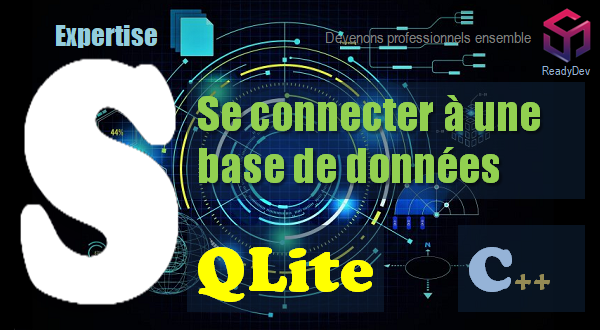
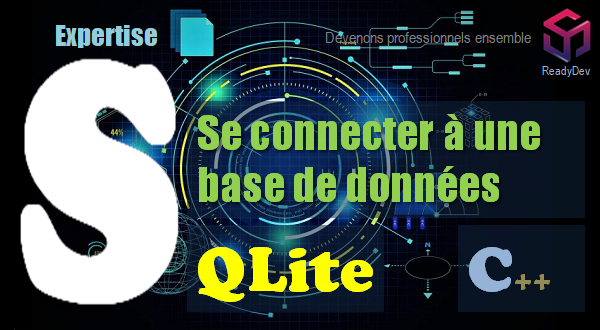
Initial Commit

Changed region(s): [[0.3, 0.2424, 0.99, 0.6667]]

diff --git a/Tutoriels/Cpp/SQLite/Connect/page/main.php b/Tutoriels/Cpp/SQLite/Connect/page/main.php
@@ -1,83 +1,13 @@
-<div class="Parallax GParallax1"><div class="Img Binary"><div class="Caption"><a href="#"><div class="Text">Afficher les données d'une table SQLite en C++</div></a></div></div><div class="Body2 Orange">Le but de ce tutoriel est de vous apprendre à afficher les données d'une table <b>SQLite </b>en <b>C++</b>.<br>Version Pro &amp; Industrielle. Produit par <b>Gérard KESSE</b>.<br><br><div class="Content0 GSummary1"><div class="Body0" id="Loader_1529412976174"><div class="Row26">Summary 1</div></div><script>loadSummary1("Loader_1529412976174");</script></div></div></div><br><div class="Content2 GTitle1"><div class="MainBlock2"><div class="Content"><h1 class="Title2 Center" id="Introduction"><a class="Link3" href="#">Introduction</a></h1><div class="Body3"><b>SQLite </b>est une bibliothèque écrite en langage C qui propose un moteur de base de données relationnelle accessible par le langage SQL. SQLite implémente en grande partie le standard SQL-92 et des propriétés ACID. Sa particularité est de ne pas reproduire le schéma habituel client-serveur mais d'être directement intégrée aux programmes. L'intégralité de la base de données (déclarations, tables, index et données) est stockée dans un fichier indépendant de la plateforme.<br><br><div class="Img3 GImage"><img src="/Tutoriels/Cpp/img/b_sqlite_show.png" alt="/Tutoriels/Cpp/img/b_sqlite_show.png"></div><br></div></div></div></div><br><div class="Content2 GTitle1"><div class="MainBlock2"><div class="Content"><h1 class="Title2 Center" id="Afficher les données d'une table SQLite C++"><a class="Link3" href="#">Afficher les données d'une table SQLite C++</a></h1><div class="Body3"><br><div class="Content0 GSummary2"><div class="Body0" id="Loader_1599250744051"><div class="Row26">Summary 2</div></div><script>loadSummary2("Loader_1599250744051");</script></div><br><h2 class="Title7 GTitle2" id="Afficher les données d'une table SQLite C++-Introduction"><a class="Link9" href="#Afficher les données d'une table SQLite C++">Introduction</a></h2><br>Dans l'exemple qui suit, nous essayons d'afficher les données d'une table SQLite (CONFIG_CPP).<br><br><h2 class="Title7 GTitle2" id="Afficher les données d'une table SQLite C++-Programme principal"><a class="Link9" href="#Afficher les données d'une table SQLite C++">Programme principal</a></h2><br><h3 class="Title8 GTitle3">main.cpp</h3><br><div class="GCode1"><pre class="Code2"><xmp class="AceCode" data-mode="c_cpp">GSQLite::Instance()-&gt;queryShow("\
-select * from CONFIG_CPP \
-order by CONFIG_KEY \
-", 1, "20;30", "20");</xmp></pre></div><br><h3 class="Title8 GTitle3">GSQLite.cpp</h3><br><div class="GCode1"><pre class="Code2"><xmp class="AceCode" data-mode="c_cpp">//===============================================
-struct _sGSQLiteShow {
-    int on_header;
-    std::string width_map;
-    std::string default_width;
-    int on_sep;
-    int col_count;
-};
-//===============================================</xmp></pre></div><br><h2 class="Title7 GTitle2" id="Afficher les données d'une table SQLite C++-Affichage d'une requête"><a class="Link9" href="#Afficher les données d'une table SQLite C++">Affichage d'une requête</a></h2><br><h3 class="Title8 GTitle3">GSQLite.cpp</h3><br><div class="GCode1"><pre class="Code2"><xmp class="AceCode" data-mode="c_cpp">//===============================================
-void GSQLite::queryShow(std::string sql, int onHeader, std::string widthMap, std::string defaultWidth) {
-    sGSQLiteShow lParams = {onHeader, widthMap, defaultWidth, 1, 0};
-    sqlite3* lDb = connect();
-    char* lError;
-    int lAns = sqlite3_exec(lDb, sql.c_str(), onShow, &lParams, &lError);
+<div class="Parallax GParallax1"><div class="Img Binary"><div class="Caption"><a href="#"><div class="Text">Se connecter à une base de données SQLite en C++</div></a></div></div><div class="Body2 Orange">Le but de ce tutoriel est de vous apprendre à vous connecter à une base de données <b>SQLite </b>en <b>C++</b>.<br>Version Pro &amp; Industrielle. Produit par <b>Gérard KESSE</b>.<br><br><div class="Content0 GSummary1"><div class="Body0" id="Loader_1529412976174"><div class="Row26">Summary 1</div></div><script>loadSummary1("Loader_1529412976174");</script></div></div></div><br><div class="Content2 GTitle1"><div class="MainBlock2"><div class="Content"><h1 class="Title2 Center" id="Introduction"><a class="Link3" href="#">Introduction</a></h1><div class="Body3"><b>SQLite </b>est une bibliothèque écrite en langage C qui propose un moteur de base de données relationnelle accessible par le langage SQL. SQLite implémente en grande partie le standard SQL-92 et des propriétés ACID. Sa particularité est de ne pas reproduire le schéma habituel client-serveur mais d'être directement intégrée aux programmes. L'intégralité de la base de données (déclarations, tables, index et données) est stockée dans un fichier indépendant de la plateforme.<br><br><div class="Img3 GImage"><img src="/Tutoriels/Cpp/img/b_sqlite_connect.png" alt="/Tutoriels/Cpp/img/b_sqlite_connect.png"></div><br></div></div></div></div><br><div class="Content2 GTitle1"><div class="MainBlock2"><div class="Content"><h1 class="Title2 Center" id="Se connecter à une base de données SQLite C++"><a class="Link3" href="#">Se connecter à une base de données SQLite C++</a></h1><div class="Body3"><br><div class="Content0 GSummary2"><div class="Body0" id="Loader_1599250744051"><div class="Row26">Summary 2</div></div><script>loadSummary2("Loader_1599250744051");</script></div><br><h2 class="Title7 GTitle2" id="Se connecter à une base de données SQLite C++-Introduction"><a class="Link9" href="#Se connecter à une base de données SQLite C++">Introduction</a></h2><br>Dans l'exemple qui suit, nous essayons de nous connecter à une base de données SQLite (CONFIG.dat).<br><br><h2 class="Title7 GTitle2" id="Se connecter à une base de données SQLite C++-Programme principal"><a class="Link9" href="#Se connecter à une base de données SQLite C++">Programme principal</a></h2><br><h3 class="Title8 GTitle3">main.cpp</h3><br><div class="GCode1"><pre class="Code2"><xmp class="AceCode" data-mode="c_cpp">sqlite3* lDb = connect();</xmp></pre></div><br><h3 class="Title8 GTitle3">GManager.cpp</h3><br><div class="GCode1"><pre class="Code2"><xmp class="AceCode" data-mode="c_cpp">m_mgr-&gt;sqlite-&gt;db_path = "CONFIG_O.dat";</xmp></pre></div><br><h2 class="Title7 GTitle2" id="Se connecter à une base de données SQLite C++-Se connecter à la base de données"><a class="Link9" href="#Se connecter à une base de données SQLite C++">Se connecter à la base de données</a></h2><br><div class="GCode1"><pre class="Code2"><xmp class="AceCode" data-mode="c_cpp">//===============================================
+sqlite3* GSQLite::connect() {
+    sGSQLite* lSqlite = GManager::Instance()-&gt;dataGet()-&gt;sqlite;
+    sqlite3* lDb;
+    int lAns = sqlite3_open(lSqlite-&gt;db_path.c_str(), &lDb);
     if(lAns != SQLITE_OK) {
-        printf("[GSQLite] erreur queryShow : %s\n", sqlite3_errmsg(lDb));
-        sqlite3_free(lError);
+        printf("[GSQLite] erreur connect : %s\n", sqlite3_errmsg(lDb));
+        printf("[GSQLite] %s\n", lSqlite-&gt;db_path.c_str());
         exit(0); 
     }
-    sqlite3_close(lDb);
-    if(lParams.col_count != 0) {
-        printf("+-");
-        for(int i = 0; i &lt; lParams.col_count; i++) {
-            int lWidth = std::stoi(GManager::Instance()-&gt;splitGet(widthMap, ';', i, defaultWidth));
-            if(i != 0 ) {printf("-+-");}
-            for(int i = 0; i &lt; lWidth; i++) {printf("-");}
-        }
-        printf("-+");
-        printf("\n");
-    }
+    return lDb;
 }
-//===============================================</xmp></pre></div><br><h2 class="Title7 GTitle2" id="Afficher les données d'une table SQLite C++-Fonction de rappel"><a class="Link9" href="#Afficher les données d'une table SQLite C++">Fonction de rappel</a></h2><br><h3 class="Title8 GTitle3">GSQLite.cpp</h3><br><div class="GCode1"><pre class="Code2"><xmp class="AceCode" data-mode="c_cpp">//===============================================
-int GSQLite::onShow(void* params, int colCount, char** colValue, char** colName) {
-    sGSQLiteShow* lParams = (sGSQLiteShow*)params;
-    std::string lWidthMap = lParams-&gt;width_map;
-    std::string lWidthDefault = lParams-&gt;default_width;
-    if(lParams-&gt;on_header == 1) {
-        printf("+-");
-        for(int i = 0; i &lt; colCount; i++) {
-            int lWidth = std::stoi(GManager::Instance()-&gt;splitGet(lWidthMap, ';', i, lWidthDefault));
-            if(i != 0 ) {printf("-+-");}
-            for(int i = 0; i &lt; lWidth; i++) {printf("-");}
-        }
-        printf("-+");
-        printf("\n");
-        printf("| ");
-        for(int i = 0; i &lt; colCount; i++) {
-            int lWidth = std::stoi(GManager::Instance()-&gt;splitGet(lWidthMap, ';', i, lWidthDefault));
-            char* lColName = colName[i];
-            if(i != 0) {printf(" | ");}
-            {printf("%-*s", lWidth, lColName);}
-        }
-        printf(" |");
-        printf("\n");
-    }
-    if(lParams-&gt;on_sep == 1) {
-        printf("+-");
-        for(int i = 0; i &lt; colCount; i++) {
-            int lWidth = std::stoi(GManager::Instance()-&gt;splitGet(lWidthMap, ';', i, lWidthDefault));
-            if(i != 0 ) {printf("-+-");}
-            for(int i = 0; i &lt; lWidth; i++) {printf("-");}
-        }
-        printf("-+");
-        printf("\n");
-        lParams-&gt;col_count = colCount;
-    }
-    printf("| ");
-    for(int i = 0; i &lt; colCount; i++) {
-        int lWidth = std::stoi(GManager::Instance()-&gt;splitGet(lWidthMap, ';', i, lWidthDefault));
-        const char* lCoValue = colValue[i] ? colValue[i] : "NULL";
-        if(i != 0) {printf(" | ");}
-        printf("%-*s", lWidth, lCoValue);
-    }
-    printf(" |");
-    printf("\n");
-    lParams-&gt;on_header = 0;
-    lParams-&gt;on_sep = 0;
-    return 0;
-}
-//===============================================</xmp></pre></div><br><h2 class="Title7 GTitle2" id="Afficher les données d'une table SQLite C++-Résultat"><a class="Link9" href="#Afficher les données d'une table SQLite C++">Résultat</a></h2><br><div class="Img3 GImage"><img src="/Tutoriels/Cpp/img/i_sqlite_show.png" alt="/Tutoriels/Cpp/img/i_sqlite_show.png"></div><br></div></div></div></div><br><div class="Content2 GTitle1"><div class="MainBlock2"><div class="Content"><h1 class="Title2 Center" id="Voir Aussi"><a class="Link3" href="#">Voir Aussi</a></h1><div class="Body3">Dans cette même catégorie, vous pouvez consulter aussi :<br><br><span class="GColor1" style="color:lime;">Base de données SQLite</span><br><br><div class="Content0 GList1"><div class="Body0" id="Loader_1600474250946"><div class="Row26">List 1 &gt; Cpp &gt; sqlite</div></div><script>loadList1("Loader_1600474250946","Cpp","sqlite");</script></div><br></div></div></div></div><br>
+//===============================================</xmp></pre></div><br></div></div></div></div><br><div class="Content2 GTitle1"><div class="MainBlock2"><div class="Content"><h1 class="Title2 Center" id="Voir Aussi"><a class="Link3" href="#">Voir Aussi</a></h1><div class="Body3">Dans cette même catégorie, vous pouvez consulter aussi :<br><br><span class="GColor1" style="color:lime;">Base de données SQLite</span><br><br><div class="Content0 GList1"><div class="Body0" id="Loader_1600474250946"><div class="Row26">List 1 &gt; Cpp &gt; sqlite</div></div><script>loadList1("Loader_1600474250946","Cpp","sqlite");</script></div><br></div></div></div></div><br>

diff --git a/Tutoriels/Cpp/SQLite/Create/page/main.php b/Tutoriels/Cpp/SQLite/Create/page/main.php
@@ -1,83 +1,6 @@
-<div class="Parallax GParallax1"><div class="Img Binary"><div class="Caption"><a href="#"><div class="Text">Afficher les données d'une table SQLite en C++</div></a></div></div><div class="Body2 Orange">Le but de ce tutoriel est de vous apprendre à afficher les données d'une table <b>SQLite </b>en <b>C++</b>.<br>Version Pro &amp; Industrielle. Produit par <b>Gérard KESSE</b>.<br><br><div class="Content0 GSummary1"><div class="Body0" id="Loader_1529412976174"><div class="Row26">Summary 1</div></div><script>loadSummary1("Loader_1529412976174");</script></div></div></div><br><div class="Content2 GTitle1"><div class="MainBlock2"><div class="Content"><h1 class="Title2 Center" id="Introduction"><a class="Link3" href="#">Introduction</a></h1><div class="Body3"><b>SQLite </b>est une bibliothèque écrite en langage C qui propose un moteur de base de données relationnelle accessible par le langage SQL. SQLite implémente en grande partie le standard SQL-92 et des propriétés ACID. Sa particularité est de ne pas reproduire le schéma habituel client-serveur mais d'être directement intégrée aux programmes. L'intégralité de la base de données (déclarations, tables, index et données) est stockée dans un fichier indépendant de la plateforme.<br><br><div class="Img3 GImage"><img src="/Tutoriels/Cpp/img/b_sqlite_show.png" alt="/Tutoriels/Cpp/img/b_sqlite_show.png"></div><br></div></div></div></div><br><div class="Content2 GTitle1"><div class="MainBlock2"><div class="Content"><h1 class="Title2 Center" id="Afficher les données d'une table SQLite C++"><a class="Link3" href="#">Afficher les données d'une table SQLite C++</a></h1><div class="Body3"><br><div class="Content0 GSummary2"><div class="Body0" id="Loader_1599250744051"><div class="Row26">Summary 2</div></div><script>loadSummary2("Loader_1599250744051");</script></div><br><h2 class="Title7 GTitle2" id="Afficher les données d'une table SQLite C++-Introduction"><a class="Link9" href="#Afficher les données d'une table SQLite C++">Introduction</a></h2><br>Dans l'exemple qui suit, nous essayons d'afficher les données d'une table SQLite (CONFIG_CPP).<br><br><h2 class="Title7 GTitle2" id="Afficher les données d'une table SQLite C++-Programme principal"><a class="Link9" href="#Afficher les données d'une table SQLite C++">Programme principal</a></h2><br><h3 class="Title8 GTitle3">main.cpp</h3><br><div class="GCode1"><pre class="Code2"><xmp class="AceCode" data-mode="c_cpp">GSQLite::Instance()-&gt;queryShow("\
-select * from CONFIG_CPP \
-order by CONFIG_KEY \
-", 1, "20;30", "20");</xmp></pre></div><br><h3 class="Title8 GTitle3">GSQLite.cpp</h3><br><div class="GCode1"><pre class="Code2"><xmp class="AceCode" data-mode="c_cpp">//===============================================
-struct _sGSQLiteShow {
-    int on_header;
-    std::string width_map;
-    std::string default_width;
-    int on_sep;
-    int col_count;
-};
-//===============================================</xmp></pre></div><br><h2 class="Title7 GTitle2" id="Afficher les données d'une table SQLite C++-Affichage d'une requête"><a class="Link9" href="#Afficher les données d'une table SQLite C++">Affichage d'une requête</a></h2><br><h3 class="Title8 GTitle3">GSQLite.cpp</h3><br><div class="GCode1"><pre class="Code2"><xmp class="AceCode" data-mode="c_cpp">//===============================================
-void GSQLite::queryShow(std::string sql, int onHeader, std::string widthMap, std::string defaultWidth) {
-    sGSQLiteShow lParams = {onHeader, widthMap, defaultWidth, 1, 0};
-    sqlite3* lDb = connect();
-    char* lError;
-    int lAns = sqlite3_exec(lDb, sql.c_str(), onShow, &lParams, &lError);
-    if(lAns != SQLITE_OK) {
-        printf("[GSQLite] erreur queryShow : %s\n", sqlite3_errmsg(lDb));
-        sqlite3_free(lError);
-        exit(0); 
-    }
-    sqlite3_close(lDb);
-    if(lParams.col_count != 0) {
-        printf("+-");
-        for(int i = 0; i &lt; lParams.col_count; i++) {
-            int lWidth = std::stoi(GManager::Instance()-&gt;splitGet(widthMap, ';', i, defaultWidth));
-            if(i != 0 ) {printf("-+-");}
-            for(int i = 0; i &lt; lWidth; i++) {printf("-");}
-        }
-        printf("-+");
-        printf("\n");
-    }
-}
-//===============================================</xmp></pre></div><br><h2 class="Title7 GTitle2" id="Afficher les données d'une table SQLite C++-Fonction de rappel"><a class="Link9" href="#Afficher les données d'une table SQLite C++">Fonction de rappel</a></h2><br><h3 class="Title8 GTitle3">GSQLite.cpp</h3><br><div class="GCode1"><pre class="Code2"><xmp class="AceCode" data-mode="c_cpp">//===============================================
-int GSQLite::onShow(void* params, int colCount, char** colValue, char** colName) {
-    sGSQLiteShow* lParams = (sGSQLiteShow*)params;
-    std::string lWidthMap = lParams-&gt;width_map;
-    std::string lWidthDefault = lParams-&gt;default_width;
-    if(lParams-&gt;on_header == 1) {
-        printf("+-");
-        for(int i = 0; i &lt; colCount; i++) {
-            int lWidth = std::stoi(GManager::Instance()-&gt;splitGet(lWidthMap, ';', i, lWidthDefault));
-            if(i != 0 ) {printf("-+-");}
-            for(int i = 0; i &lt; lWidth; i++) {printf("-");}
-        }
-        printf("-+");
-        printf("\n");
-        printf("| ");
-        for(int i = 0; i &lt; colCount; i++) {
-            int lWidth = std::stoi(GManager::Instance()-&gt;splitGet(lWidthMap, ';', i, lWidthDefault));
-            char* lColName = colName[i];
-            if(i != 0) {printf(" | ");}
-            {printf("%-*s", lWidth, lColName);}
-        }
-        printf(" |");
-        printf("\n");
-    }
-    if(lParams-&gt;on_sep == 1) {
-        printf("+-");
-        for(int i = 0; i &lt; colCount; i++) {
-            int lWidth = std::stoi(GManager::Instance()-&gt;splitGet(lWidthMap, ';', i, lWidthDefault));
-            if(i != 0 ) {printf("-+-");}
-            for(int i = 0; i &lt; lWidth; i++) {printf("-");}
-        }
-        printf("-+");
-        printf("\n");
-        lParams-&gt;col_count = colCount;
-    }
-    printf("| ");
-    for(int i = 0; i &lt; colCount; i++) {
-        int lWidth = std::stoi(GManager::Instance()-&gt;splitGet(lWidthMap, ';', i, lWidthDefault));
-        const char* lCoValue = colValue[i] ? colValue[i] : "NULL";
-        if(i != 0) {printf(" | ");}
-        printf("%-*s", lWidth, lCoValue);
-    }
-    printf(" |");
-    printf("\n");
-    lParams-&gt;on_header = 0;
-    lParams-&gt;on_sep = 0;
-    return 0;
-}
-//===============================================</xmp></pre></div><br><h2 class="Title7 GTitle2" id="Afficher les données d'une table SQLite C++-Résultat"><a class="Link9" href="#Afficher les données d'une table SQLite C++">Résultat</a></h2><br><div class="Img3 GImage"><img src="/Tutoriels/Cpp/img/i_sqlite_show.png" alt="/Tutoriels/Cpp/img/i_sqlite_show.png"></div><br></div></div></div></div><br><div class="Content2 GTitle1"><div class="MainBlock2"><div class="Content"><h1 class="Title2 Center" id="Voir Aussi"><a class="Link3" href="#">Voir Aussi</a></h1><div class="Body3">Dans cette même catégorie, vous pouvez consulter aussi :<br><br><span class="GColor1" style="color:lime;">Base de données SQLite</span><br><br><div class="Content0 GList1"><div class="Body0" id="Loader_1600474250946"><div class="Row26">List 1 &gt; Cpp &gt; sqlite</div></div><script>loadList1("Loader_1600474250946","Cpp","sqlite");</script></div><br></div></div></div></div><br>
+<div class="Parallax GParallax1"><div class="Img Binary"><div class="Caption"><a href="#"><div class="Text">Créer une table SQLite en C++</div></a></div></div><div class="Body2 Orange">Le but de ce tutoriel est de vous apprendre à créer une table <b>SQLite </b>en <b>C++</b>.<br>Version Pro &amp; Industrielle. Produit par <b>Gérard KESSE</b>.<br><br><div class="Content0 GSummary1"><div class="Body0" id="Loader_1529412976174"><div class="Row26">Summary 1</div></div><script>loadSummary1("Loader_1529412976174");</script></div></div></div><br><div class="Content2 GTitle1"><div class="MainBlock2"><div class="Content"><h1 class="Title2 Center" id="Introduction"><a class="Link3" href="#">Introduction</a></h1><div class="Body3"><b>SQLite </b>est une bibliothèque écrite en langage C qui propose un moteur de base de données relationnelle accessible par le langage SQL. SQLite implémente en grande partie le standard SQL-92 et des propriétés ACID. Sa particularité est de ne pas reproduire le schéma habituel client-serveur mais d'être directement intégrée aux programmes. L'intégralité de la base de données (déclarations, tables, index et données) est stockée dans un fichier indépendant de la plateforme.<br><br><div class="Img3 GImage"><img src="/Tutoriels/Cpp/img/b_sqlite_create.png" alt="/Tutoriels/Cpp/img/b_sqlite_create.png"></div><br></div></div></div></div><br><div class="Content2 GTitle1"><div class="MainBlock2"><div class="Content"><h1 class="Title2 Center" id="Créer une table SQLite C++"><a class="Link3" href="#">Créer une table SQLite C++</a></h1><div class="Body3"><br><div class="Content0 GSummary2"><div class="Body0" id="Loader_1599250744051"><div class="Row26">Summary 2</div></div><script>loadSummary2("Loader_1599250744051");</script></div><br><h2 class="Title7 GTitle2" id="Créer une table SQLite C++-Introduction"><a class="Link9" href="#Créer une table SQLite C++">Introduction</a></h2><br>Dans l'exemple qui suit, nous essayons de créer une table SQLite (CONFIG_CPP).<br><br><h2 class="Title7 GTitle2" id="Créer une table SQLite C++-Programme principal"><a class="Link9" href="#Créer une table SQLite C++">Programme principal</a></h2><br><h3 class="Title8 GTitle3">main.cpp</h3><br><div class="GCode1"><pre class="Code2"><xmp class="AceCode" data-mode="c_cpp">GSQLite::Instance()-&gt;queryWrite("\
+create table CONFIG_CPP ( \
+CONFIG_KEY text unique not null, \
+CONFIG_VALUE text\
+)\
+");</xmp></pre></div><br><h2 class="Title7 GTitle2" id="Créer une table SQLite C++-Résultat"><a class="Link9" href="#Créer une table SQLite C++">Résultat</a></h2><br><div class="Img3 GImage"><img src="/Tutoriels/Cpp/img/i_sqlite_create.png" alt="/Tutoriels/Cpp/img/i_sqlite_create.png"></div><br></div></div></div></div><br><div class="Content2 GTitle1"><div class="MainBlock2"><div class="Content"><h1 class="Title2 Center" id="Voir Aussi"><a class="Link3" href="#">Voir Aussi</a></h1><div class="Body3">Dans cette même catégorie, vous pouvez consulter aussi :<br><br><span class="GColor1" style="color:lime;">Base de données SQLite</span><br><br><div class="Content0 GList1"><div class="Body0" id="Loader_1600474250946"><div class="Row26">List 1 &gt; Cpp &gt; sqlite</div></div><script>loadList1("Loader_1600474250946","Cpp","sqlite");</script></div><br></div></div></div></div><br>

diff --git a/Tutoriels/Cpp/SQLite/Show_Query/page/main.php b/Tutoriels/Cpp/SQLite/Show_Query/page/main.php
@@ -1,0 +1,83 @@
+<div class="Parallax GParallax1"><div class="Img Binary"><div class="Caption"><a href="#"><div class="Text">Exécuter une requête d'affichage de données SQLite en C++</div></a></div></div><div class="Body2 Orange">Le but de ce tutoriel est de vous apprendre à exécuter une requête d'affichage de données <b>SQLite </b>en <b>C++</b>.<br>Version Pro &amp; Industrielle. Produit par <b>Gérard KESSE</b>.<br><br><div class="Content0 GSummary1"><div class="Body0" id="Loader_1529412976174"><div class="Row26">Summary 1</div></div><script>loadSummary1("Loader_1529412976174");</script></div></div></div><br><div class="Content2 GTitle1"><div class="MainBlock2"><div class="Content"><h1 class="Title2 Center" id="Introduction"><a class="Link3" href="#">Introduction</a></h1><div class="Body3"><b>SQLite </b>est une bibliothèque écrite en langage C qui propose un moteur de base de données relationnelle accessible par le langage SQL. SQLite implémente en grande partie le standard SQL-92 et des propriétés ACID. Sa particularité est de ne pas reproduire le schéma habituel client-serveur mais d'être directement intégrée aux programmes. L'intégralité de la base de données (déclarations, tables, index et données) est stockée dans un fichier indépendant de la plateforme.<br><br><div class="Img3 GImage"><img src="/Tutoriels/Cpp/img/b_sqlite_show_query.png" alt="/Tutoriels/Cpp/img/b_sqlite_show_query.png"></div><br></div></div></div></div><br><div class="Content2 GTitle1"><div class="MainBlock2"><div class="Content"><h1 class="Title2 Center" id="Exécuter une requête d'affichage de données SQLite C++"><a class="Link3" href="#">Exécuter une requête d'affichage de données SQLite C++</a></h1><div class="Body3"><br><div class="Content0 GSummary2"><div class="Body0" id="Loader_1599250744051"><div class="Row26">Summary 2</div></div><script>loadSummary2("Loader_1599250744051");</script></div><br><h2 class="Title7 GTitle2" id="Exécuter une requête d'affichage de données SQLite C++-Introduction"><a class="Link9" href="#Exécuter une requête d'affichage de données SQLite C++">Introduction</a></h2><br>Dans l'exemple qui suit, nous essayons d'exécuter une requête d'affichage de données SQLite (CONFIG_CPP).<br><br><h2 class="Title7 GTitle2" id="Exécuter une requête d'affichage de données SQLite C++-Programme principal"><a class="Link9" href="#Exécuter une requête d'affichage de données SQLite C++">Programme principal</a></h2><br><h3 class="Title8 GTitle3">main.cpp</h3><br><div class="GCode1"><pre class="Code2"><xmp class="AceCode" data-mode="c_cpp">GSQLite::Instance()-&gt;queryShow("\
+select * from CONFIG_CPP \
+order by CONFIG_KEY \
+", 1, "20;30", "20");</xmp></pre></div><br><h3 class="Title8 GTitle3">GSQLite.cpp</h3><br><div class="GCode1"><pre class="Code2"><xmp class="AceCode" data-mode="c_cpp">//===============================================
+struct _sGSQLiteShow {
+    int on_header;
+    std::string width_map;
+    std::string default_width;
+    int on_sep;
+    int col_count;
+};
+//===============================================</xmp></pre></div><br><h2 class="Title7 GTitle2" id="Exécuter une requête d'affichage de données SQLite C++-Affichage d'une requête"><a class="Link9" href="#Exécuter une requête d'affichage de données SQLite C++">Affichage d'une requête</a></h2><br><h3 class="Title8 GTitle3">GSQLite.cpp</h3><br><div class="GCode1"><pre class="Code2"><xmp class="AceCode" data-mode="c_cpp">//===============================================
+void GSQLite::queryShow(std::string sql, int onHeader, std::string widthMap, std::string defaultWidth) {
+    sGSQLiteShow lParams = {onHeader, widthMap, defaultWidth, 1, 0};
+    sqlite3* lDb = connect();
+    char* lError;
+    int lAns = sqlite3_exec(lDb, sql.c_str(), onShow, &lParams, &lError);
+    if(lAns != SQLITE_OK) {
+        printf("[GSQLite] erreur queryShow : %s\n", sqlite3_errmsg(lDb));
+        sqlite3_free(lError);
+        exit(0); 
+    }
+    sqlite3_close(lDb);
+    if(lParams.col_count != 0) {
+        printf("+-");
+        for(int i = 0; i &lt; lParams.col_count; i++) {
+            int lWidth = std::stoi(GManager::Instance()-&gt;splitGet(widthMap, ';', i, defaultWidth));
+            if(i != 0 ) {printf("-+-");}
+            for(int i = 0; i &lt; lWidth; i++) {printf("-");}
+        }
+        printf("-+");
+        printf("\n");
+    }
+}
+//===============================================</xmp></pre></div><br><h2 class="Title7 GTitle2" id="Exécuter une requête d'affichage de données SQLite C++-Fonction de rappel"><a class="Link9" href="#Exécuter une requête d'affichage de données SQLite C++">Fonction de rappel</a></h2><br><h3 class="Title8 GTitle3">GSQLite.cpp</h3><br><div class="GCode1"><pre class="Code2"><xmp class="AceCode" data-mode="c_cpp">//===============================================
+int GSQLite::onShow(void* params, int colCount, char** colValue, char** colName) {
+    sGSQLiteShow* lParams = (sGSQLiteShow*)params;
+    std::string lWidthMap = lParams-&gt;width_map;
+    std::string lWidthDefault = lParams-&gt;default_width;
+    if(lParams-&gt;on_header == 1) {
+        printf("+-");
+        for(int i = 0; i &lt; colCount; i++) {
+            int lWidth = std::stoi(GManager::Instance()-&gt;splitGet(lWidthMap, ';', i, lWidthDefault));
+            if(i != 0 ) {printf("-+-");}
+            for(int i = 0; i &lt; lWidth; i++) {printf("-");}
+        }
+        printf("-+");
+        printf("\n");
+        printf("| ");
+        for(int i = 0; i &lt; colCount; i++) {
+            int lWidth = std::stoi(GManager::Instance()-&gt;splitGet(lWidthMap, ';', i, lWidthDefault));
+            char* lColName = colName[i];
+            if(i != 0) {printf(" | ");}
+            {printf("%-*s", lWidth, lColName);}
+        }
+        printf(" |");
+        printf("\n");
+    }
+    if(lParams-&gt;on_sep == 1) {
+        printf("+-");
+        for(int i = 0; i &lt; colCount; i++) {
+            int lWidth = std::stoi(GManager::Instance()-&gt;splitGet(lWidthMap, ';', i, lWidthDefault));
+            if(i != 0 ) {printf("-+-");}
+            for(int i = 0; i &lt; lWidth; i++) {printf("-");}
+        }
+        printf("-+");
+        printf("\n");
+        lParams-&gt;col_count = colCount;
+    }
+    printf("| ");
+    for(int i = 0; i &lt; colCount; i++) {
+        int lWidth = std::stoi(GManager::Instance()-&gt;splitGet(lWidthMap, ';', i, lWidthDefault));
+        const char* lCoValue = colValue[i] ? colValue[i] : "NULL";
+        if(i != 0) {printf(" | ");}
+        printf("%-*s", lWidth, lCoValue);
+    }
+    printf(" |");
+    printf("\n");
+    lParams-&gt;on_header = 0;
+    lParams-&gt;on_sep = 0;
+    return 0;
+}
+//===============================================</xmp></pre></div><br><h2 class="Title7 GTitle2" id="Exécuter une requête d'affichage de données SQLite C++-Résultat"><a class="Link9" href="#Exécuter une requête d'affichage de données SQLite C++">Résultat</a></h2><br><div class="Img3 GImage"><img src="/Tutoriels/Cpp/img/i_sqlite_show_query.png" alt="/Tutoriels/Cpp/img/i_sqlite_show_query.png"></div><br></div></div></div></div><br><div class="Content2 GTitle1"><div class="MainBlock2"><div class="Content"><h1 class="Title2 Center" id="Voir Aussi"><a class="Link3" href="#">Voir Aussi</a></h1><div class="Body3">Dans cette même catégorie, vous pouvez consulter aussi :<br><br><span class="GColor1" style="color:lime;">Base de données SQLite</span><br><br><div class="Content0 GList1"><div class="Body0" id="Loader_1600474250946"><div class="Row26">List 1 &gt; Cpp &gt; sqlite</div></div><script>loadList1("Loader_1600474250946","Cpp","sqlite");</script></div><br></div></div></div></div><br>

diff --git a/Tutoriels/Cpp/SQLite/Tables/page/main.php b/Tutoriels/Cpp/SQLite/Tables/page/main.php
@@ -1,0 +1,4 @@
+<div class="Parallax GParallax1"><div class="Img Binary"><div class="Caption"><a href="#"><div class="Text">Afficher les tables SQLite en C++</div></a></div></div><div class="Body2 Orange">Le but de ce tutoriel est de vous apprendre à afficher les tables <b>SQLite </b>en <b>C++</b>.<br>Version Pro &amp; Industrielle. Produit par <b>Gérard KESSE</b>.<br><br><div class="Content0 GSummary1"><div class="Body0" id="Loader_1529412976174"><div class="Row26">Summary 1</div></div><script>loadSummary1("Loader_1529412976174");</script></div></div></div><br><div class="Content2 GTitle1"><div class="MainBlock2"><div class="Content"><h1 class="Title2 Center" id="Introduction"><a class="Link3" href="#">Introduction</a></h1><div class="Body3"><b>SQLite </b>est une bibliothèque écrite en langage C qui propose un moteur de base de données relationnelle accessible par le langage SQL. SQLite implémente en grande partie le standard SQL-92 et des propriétés ACID. Sa particularité est de ne pas reproduire le schéma habituel client-serveur mais d'être directement intégrée aux programmes. L'intégralité de la base de données (déclarations, tables, index et données) est stockée dans un fichier indépendant de la plateforme.<br><br><div class="Img3 GImage"><img src="/Tutoriels/Cpp/img/b_sqlite_tables.png" alt="/Tutoriels/Cpp/img/b_sqlite_tables.png"></div><br></div></div></div></div><br><div class="Content2 GTitle1"><div class="MainBlock2"><div class="Content"><h1 class="Title2 Center" id="Afficher les tables SQLite C++"><a class="Link3" href="#">Afficher les tables SQLite C++</a></h1><div class="Body3"><br><div class="Content0 GSummary2"><div class="Body0" id="Loader_1599250744051"><div class="Row26">Summary 2</div></div><script>loadSummary2("Loader_1599250744051");</script></div><br><h2 class="Title7 GTitle2" id="Afficher les tables SQLite C++-Introduction"><a class="Link9" href="#Afficher les tables SQLite C++">Introduction</a></h2><br>Dans l'exemple qui suit, nous essayons d'afficher les tables SQLite.<br><br><h2 class="Title7 GTitle2" id="Afficher les tables SQLite C++-Programme principal"><a class="Link9" href="#Afficher les tables SQLite C++">Programme principal</a></h2><br><h3 class="Title8 GTitle3">main.cpp</h3><br><div class="GCode1"><pre class="Code2"><xmp class="AceCode" data-mode="c_cpp">GSQLite::Instance()-&gt;queryShow("\
+select name from sqlite_master \
+WHERE type='table' \
+", 1, "30", "20");</xmp></pre></div><br><h2 class="Title7 GTitle2" id="Afficher les tables SQLite C++-Résultat"><a class="Link9" href="#Afficher les tables SQLite C++">Résultat</a></h2><br><div class="Img3 GImage"><img src="/Tutoriels/Cpp/img/i_sqlite_tables.png" alt="/Tutoriels/Cpp/img/i_sqlite_tables.png"></div><br></div></div></div></div><br><div class="Content2 GTitle1"><div class="MainBlock2"><div class="Content"><h1 class="Title2 Center" id="Voir Aussi"><a class="Link3" href="#">Voir Aussi</a></h1><div class="Body3">Dans cette même catégorie, vous pouvez consulter aussi :<br><br><span class="GColor1" style="color:lime;">Base de données SQLite</span><br><br><div class="Content0 GList1"><div class="Body0" id="Loader_1600474250946"><div class="Row26">List 1 &gt; Cpp &gt; sqlite</div></div><script>loadList1("Loader_1600474250946","Cpp","sqlite");</script></div><br></div></div></div></div><br>

diff --git a/Tutoriels/Cpp/SQLite/Show_Query/index.php b/Tutoriels/Cpp/SQLite/Show_Query/index.php
@@ -1,11 +1,11 @@
 <?php
     require $_SERVER["DOCUMENT_ROOT"]."/php/class/GAutoloadRegister.php";
     
-    $m_data = GJson::Instance()->getData("data/json/Cpp_SQLite_Show.json");
+    $m_data = GJson::Instance()->getData("data/json/Cpp_SQLite_Show_Query.json");
     
-    GConfig::Instance()->setData("title", "C++ - SQLite - Afficher les données d'une table");
+    GConfig::Instance()->setData("title", "C++ - SQLite - Exécuter une requête d'affichage de données");
     GConfig::Instance()->setData("menu", "Tutoriels");
-    GConfig::Instance()->setData("view", "Cpp_SQLite_Show");
+    GConfig::Instance()->setData("view", "Cpp_SQLite_Show_Query");
     GConfig::Instance()->setData("link", $m_data["links"]);
 
     require $_SERVER["DOCUMENT_ROOT"]."/php/header.php";

diff --git a/Tutoriels/Cpp/SQLite/Create/index.php b/Tutoriels/Cpp/SQLite/Create/index.php
@@ -1,11 +1,11 @@
 <?php
     require $_SERVER["DOCUMENT_ROOT"]."/php/class/GAutoloadRegister.php";
     
-    $m_data = GJson::Instance()->getData("data/json/Cpp_SQLite_Show.json");
+    $m_data = GJson::Instance()->getData("data/json/Cpp_SQLite_Create.json");
     
-    GConfig::Instance()->setData("title", "C++ - SQLite - Afficher les données d'une requête");
+    GConfig::Instance()->setData("title", "C++ - SQLite - Créer une table");
     GConfig::Instance()->setData("menu", "Tutoriels");
-    GConfig::Instance()->setData("view", "Cpp_SQLite_Show");
+    GConfig::Instance()->setData("view", "Cpp_SQLite_Create");
     GConfig::Instance()->setData("link", $m_data["links"]);
 
     require $_SERVER["DOCUMENT_ROOT"]."/php/header.php";

diff --git a/Tutoriels/Cpp/SQLite/Tables/index.php b/Tutoriels/Cpp/SQLite/Tables/index.php
@@ -1,11 +1,11 @@
 <?php
     require $_SERVER["DOCUMENT_ROOT"]."/php/class/GAutoloadRegister.php";
     
-    $m_data = GJson::Instance()->getData("data/json/Cpp_SQLite_Show.json");
+    $m_data = GJson::Instance()->getData("data/json/Cpp_SQLite_Tables.json");
     
-    GConfig::Instance()->setData("title", "C++ - SQLite - Afficher les données d'une table");
+    GConfig::Instance()->setData("title", "C++ - SQLite - Afficher les tables");
     GConfig::Instance()->setData("menu", "Tutoriels");
-    GConfig::Instance()->setData("view", "Cpp_SQLite_Show");
+    GConfig::Instance()->setData("view", "Cpp_SQLite_Tables");
     GConfig::Instance()->setData("link", $m_data["links"]);
 
     require $_SERVER["DOCUMENT_ROOT"]."/php/header.php";

diff --git a/Tutoriels/Cpp/SQLite/Show_Query/page/index.php b/Tutoriels/Cpp/SQLite/Show_Query/page/index.php
@@ -1,0 +1,3 @@
+<?php
+    require $_SERVER["DOCUMENT_ROOT"]."/php/error.php";
+?>

diff --git a/Tutoriels/Cpp/SQLite/Tables/page/index.php b/Tutoriels/Cpp/SQLite/Tables/page/index.php
@@ -1,0 +1,3 @@
+<?php
+    require $_SERVER["DOCUMENT_ROOT"]."/php/error.php";
+?>

diff --git a/Tutoriels/Cpp/SQLite/Write/page/index.php b/Tutoriels/Cpp/SQLite/Write/page/index.php
@@ -1,0 +1,3 @@
+<?php
+    require $_SERVER["DOCUMENT_ROOT"]."/php/error.php";
+?>
